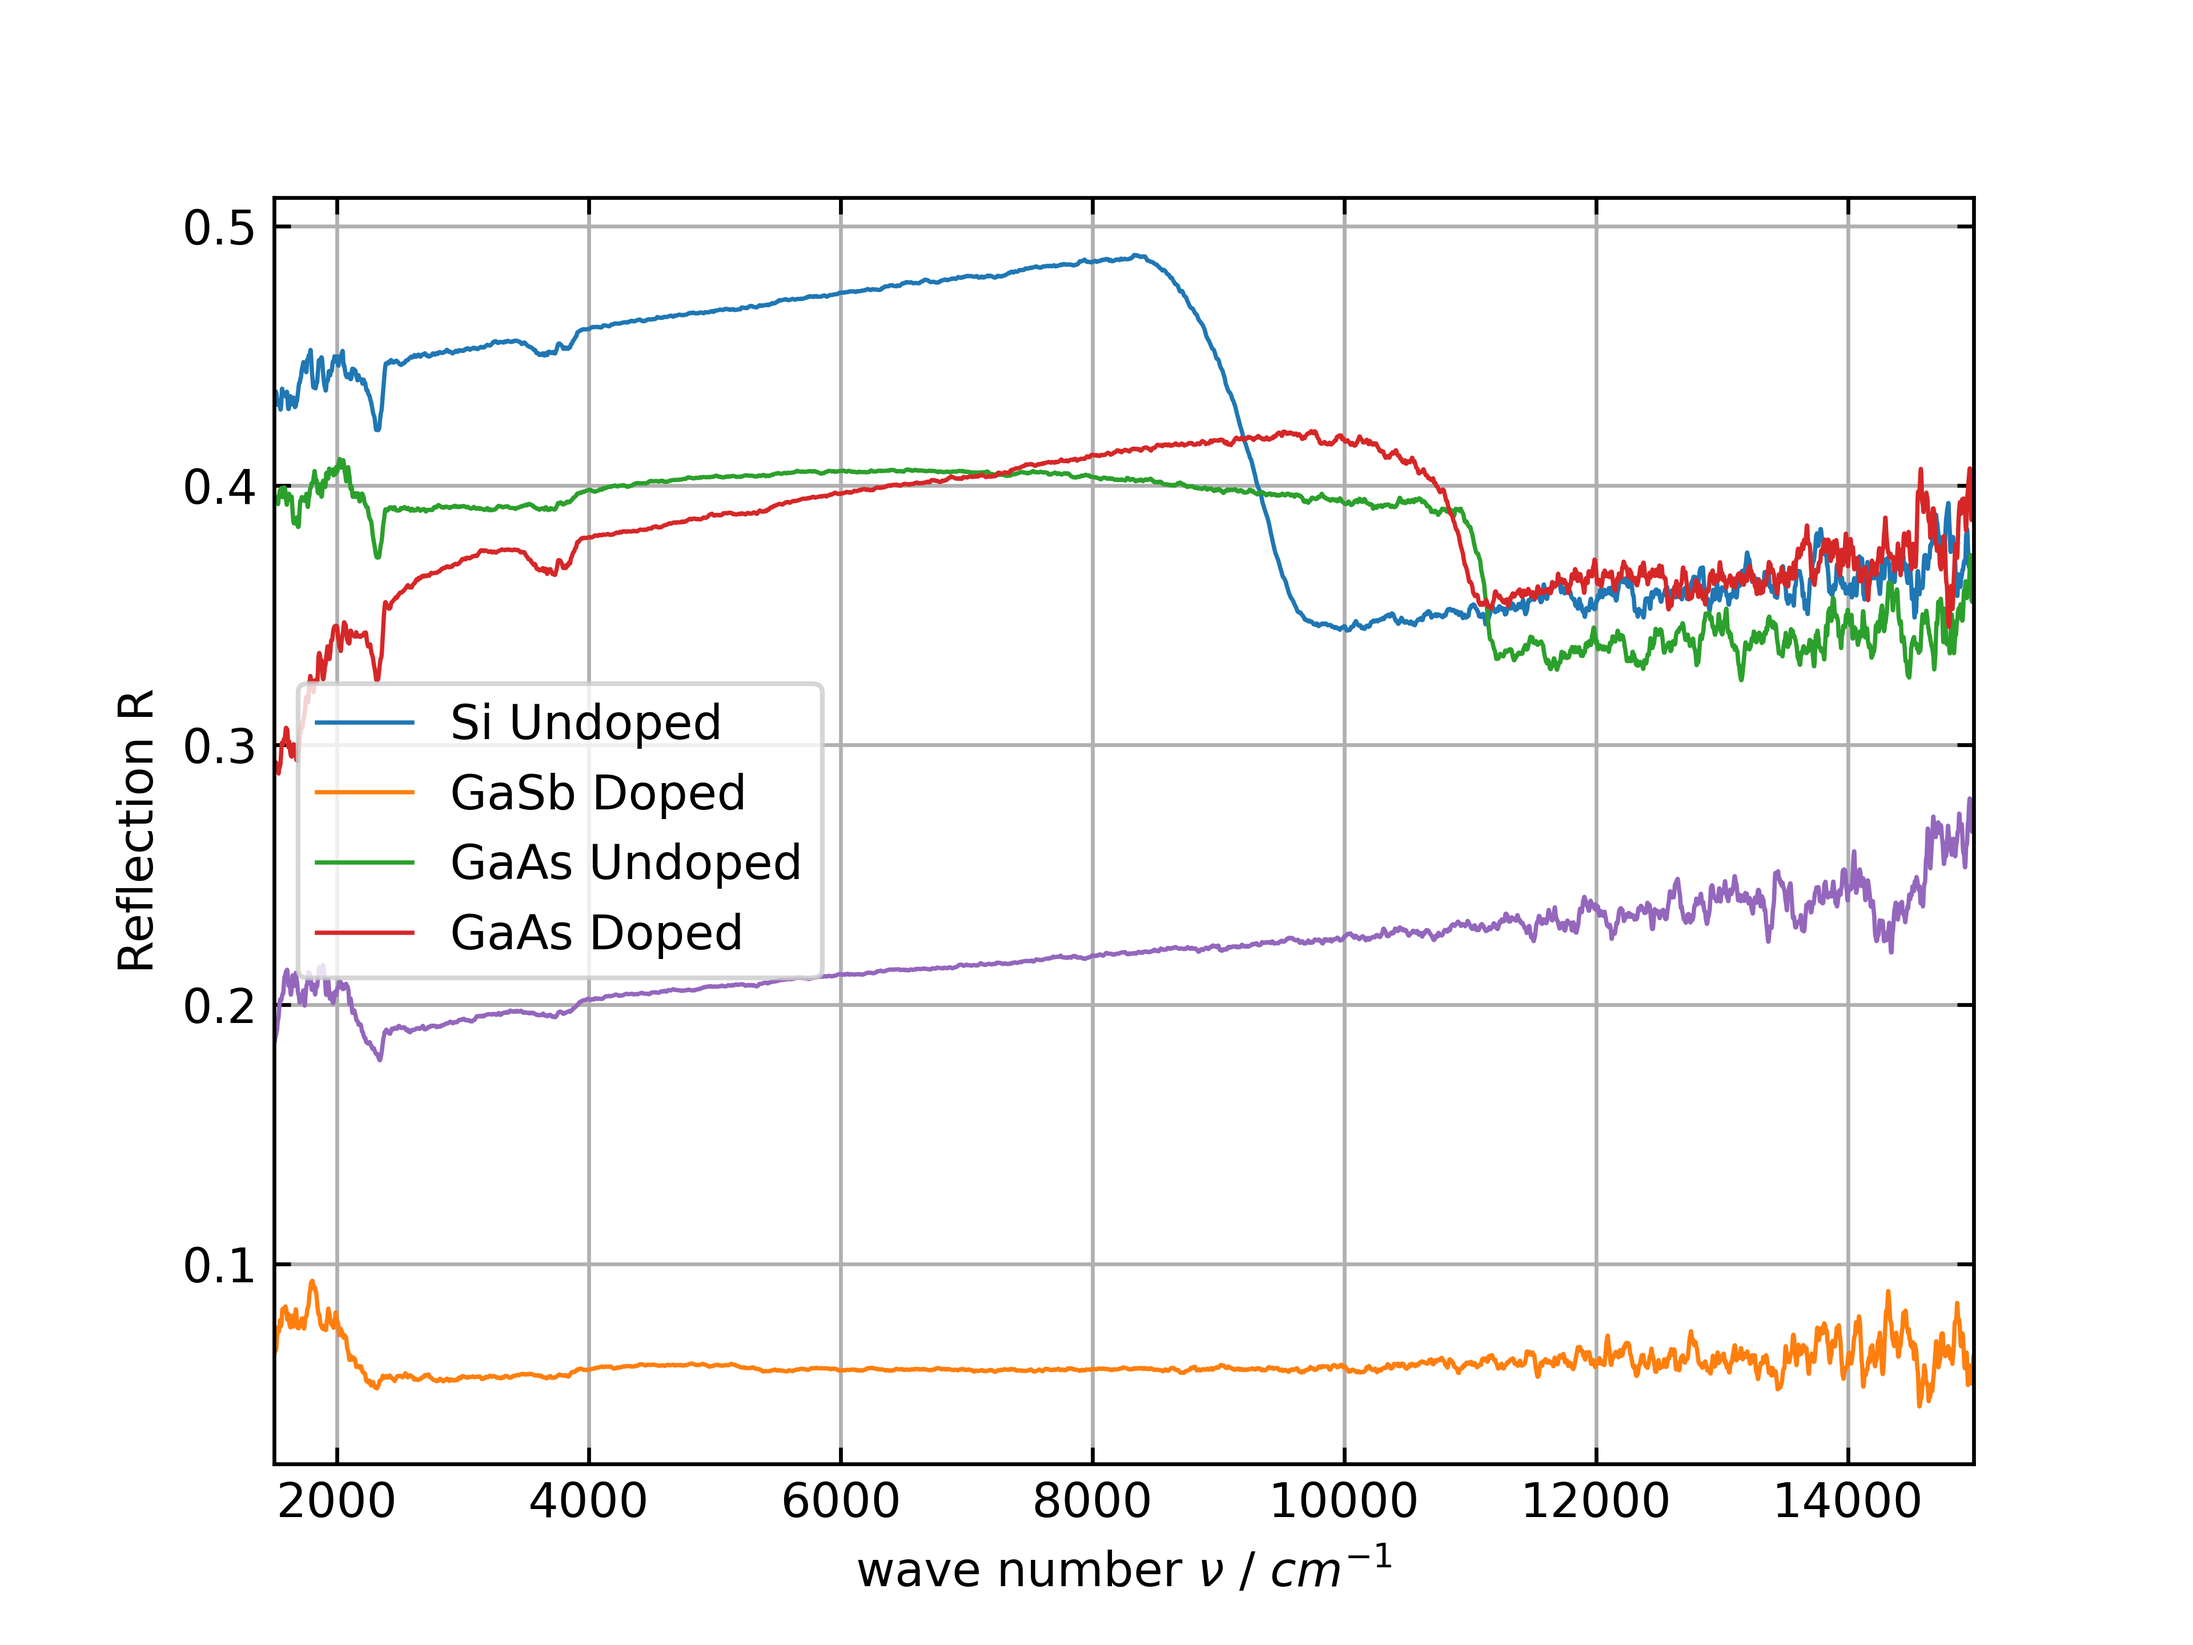
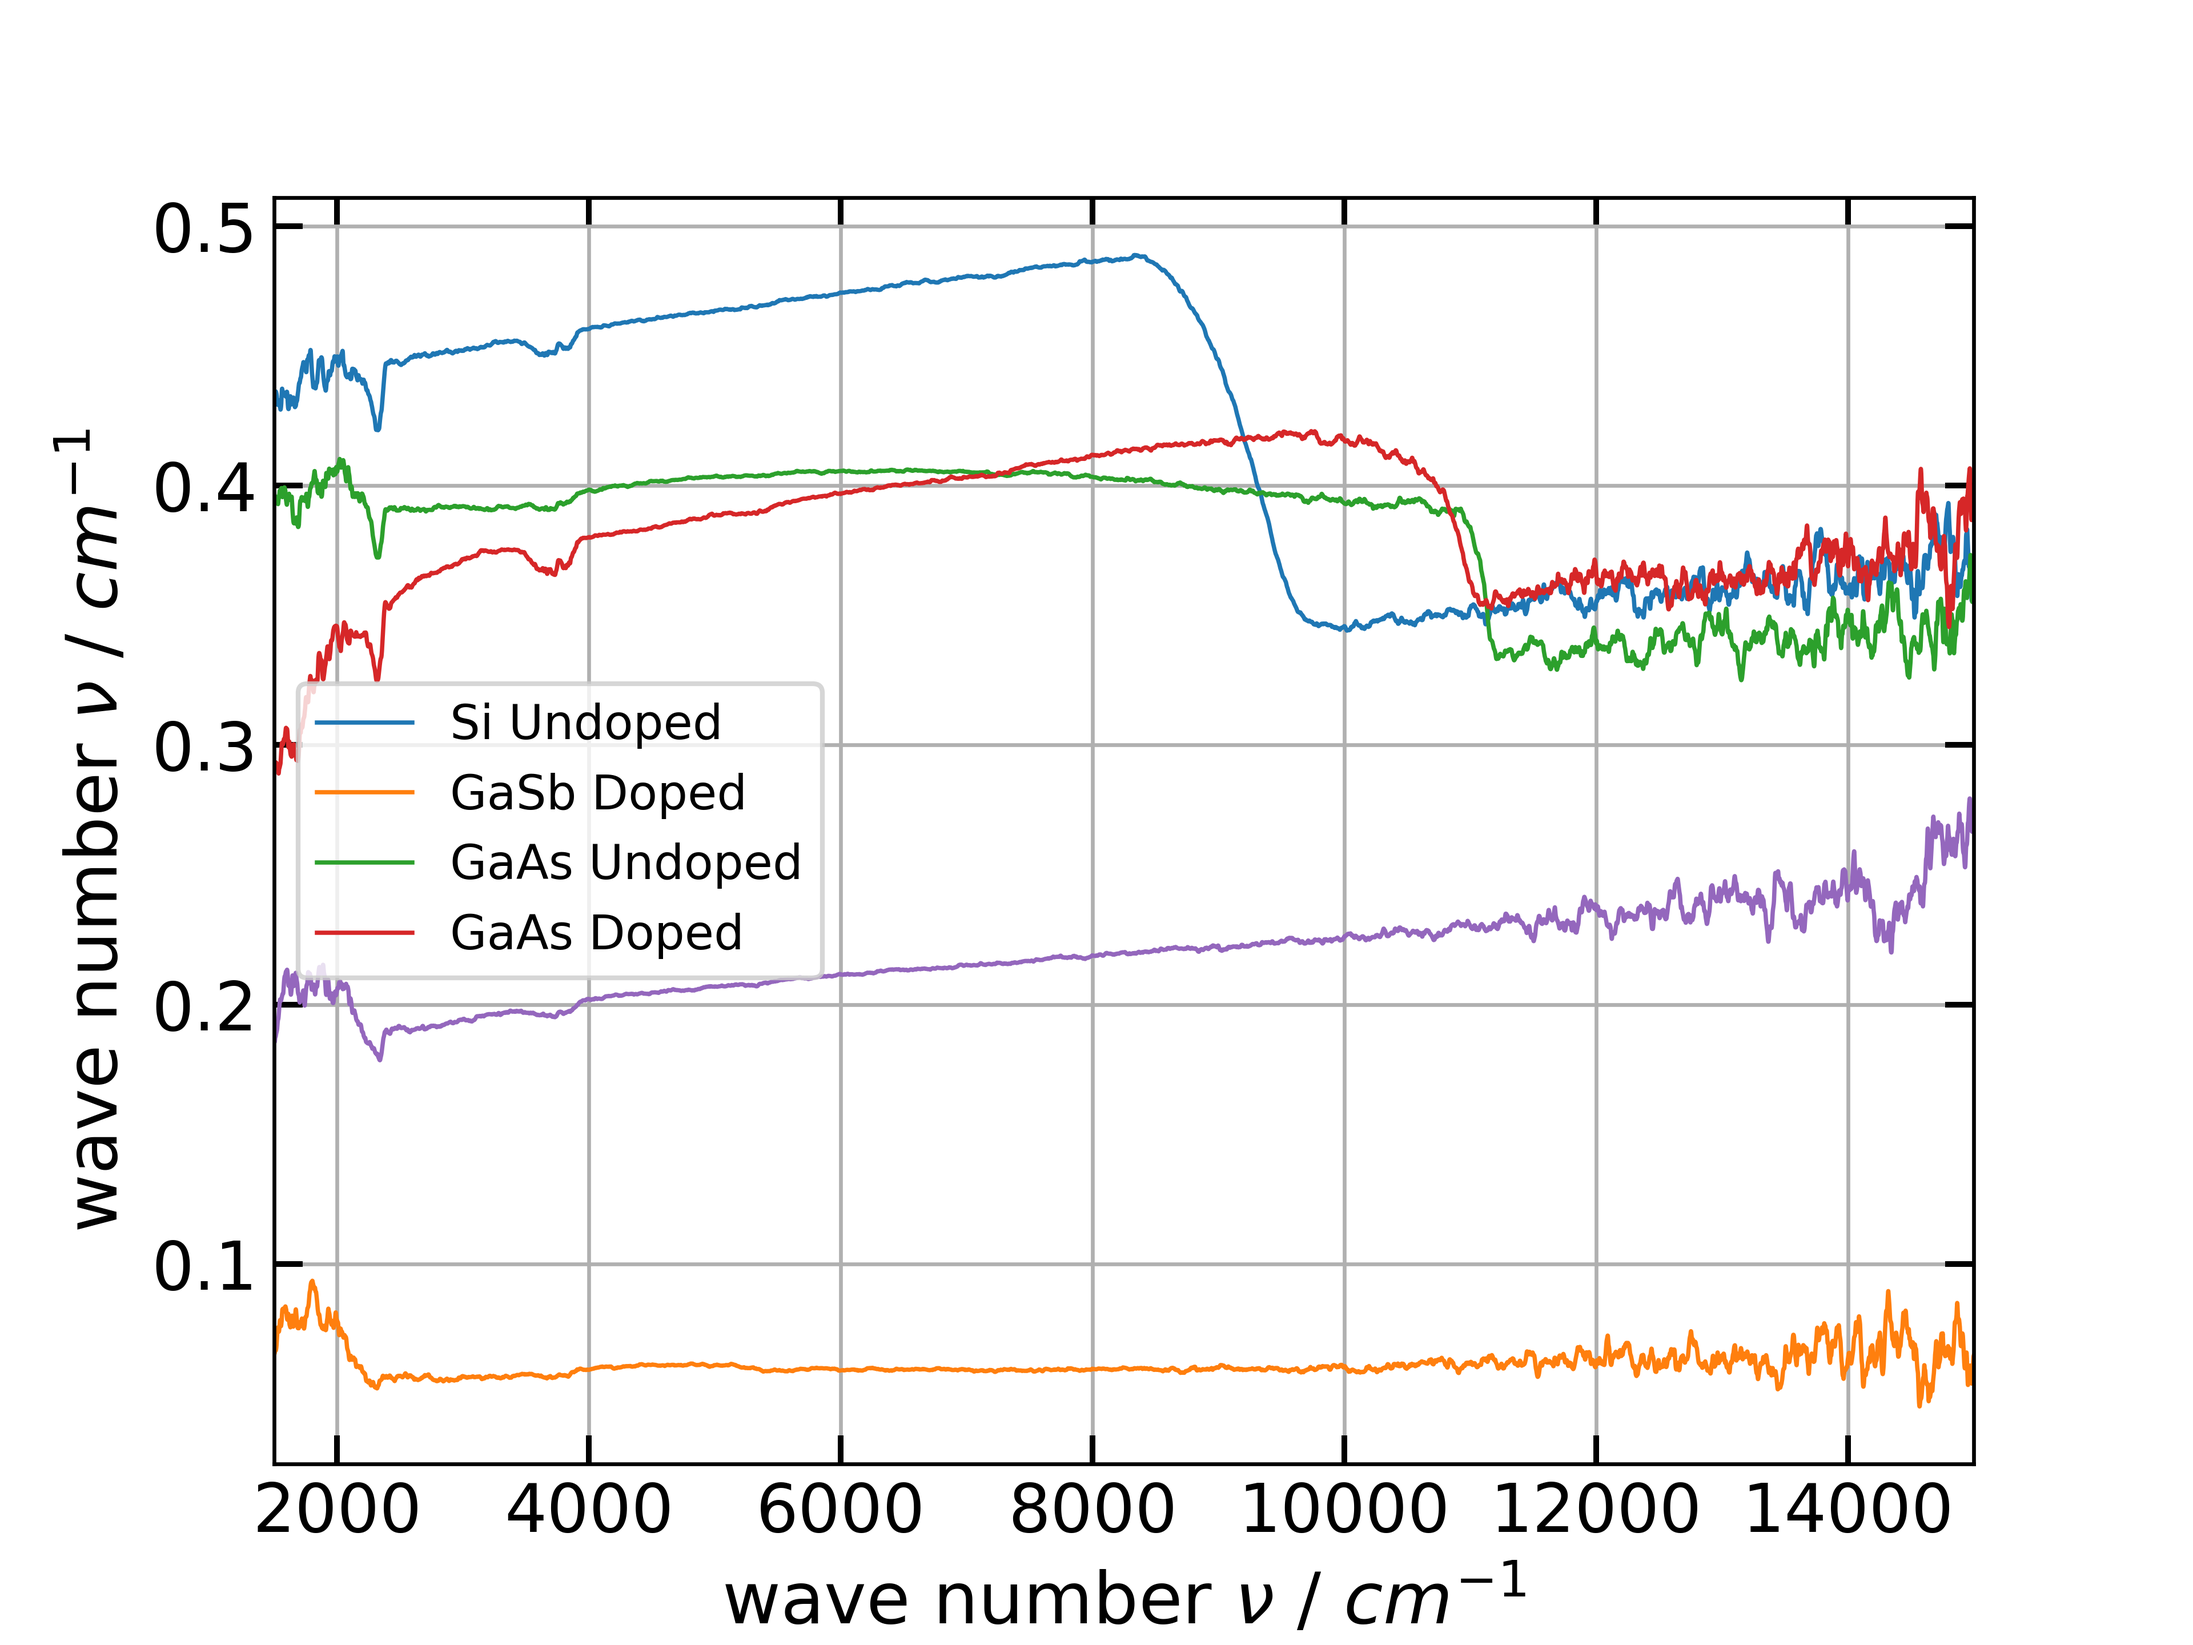
Discrete n

diff --git a/SolidStateOptics/countTo50.py b/SolidStateOptics/countTo50.py
@@ -1,0 +1,108 @@
+from matplotlib import pyplot as plt
+from DataPlotter import plot_data, save_and_open
+from DataReader import read_dpt_file
+from mpl_toolkits.axes_grid1.inset_locator import inset_axes
+from Frauen import bügeln
+from scipy.signal import find_peaks  # Added for peak detection
+
+transmissionGaAsDo = read_dpt_file(r'.\SolidStateOptics\RawData\Transmission_ex3\GaAs_doped_res03_N50_new_normalized.DPT')
+#2000-9000
+transmissionGaAsUnDo = read_dpt_file(r'.\SolidStateOptics\RawData\Transmission_ex3\GaAs_undoped_res03_N50_new_normalized.DPT')
+#2000-10500
+transmissionGaSbDo = read_dpt_file(r'.\SolidStateOptics\RawData\Transmission_ex3\GaSb_doped_res03_N50_new_normalized.DPT')
+#GaSb nicht möglich wegen rauschen
+transmissionSiUnDo = read_dpt_file(r'.\SolidStateOptics\RawData\Transmission_ex3\Si_undoped_res03_N50_normalized.DPT')
+#SiUnDo 2000-8500
+
+samplesOhneSiUn = [(transmissionSiUnDo, "Si Undoped", 530*10**-6, 0.0035, 2000, 8500),
+        #(transmissionGaSbDo, "GaSb Doped", 500*10**-6, 69, 69, 69),#geht nicht
+        (transmissionGaAsUnDo, "GaAs Undoped", 470*10**-6, 0.004, 2000, 10500),
+        (transmissionGaAsDo, "GaAs Doped", 440*10**-6, 0.004, 2000, 9000)
+    ]
+
+
+
+
+def k_chopper(data, k_min, k_max):
+    return [point for point in data if k_min <= point[0] <= k_max]
+
+def plot_peaks(data, d, x_center, x_range, prominence=0.004, filename=""):
+    x_values = [point[0] for point in data]
+    y_values = [point[1] for point in data]
+
+    # Find peaks in the y-values
+    peaks, _ = find_peaks(y_values, prominence=prominence, width=4)
+
+    x_min = x_center - x_range / 2
+    x_max = x_center + x_range / 2
+    if x_center is not None and x_range is not None:
+        peaks = [peak for peak in peaks if x_min <= x_values[peak] <= x_max]
+    
+    plt.plot([x for x in x_values if x_min <= x <= x_max], [y for x, y in zip(x_values, y_values) if x_min <= x <= x_max],
+             '-', markersize=1)
+    
+
+    for i in range(len(peaks)):
+       plt.plot(x_values[peaks[i]],y_values[peaks[i]], 'ro')
+       #plt.plot(x_values[peaks[i]],0.55, 'ro')
+       
+       
+    plt.xlabel(plt.gca().get_xlabel(), fontsize=15)
+    plt.ylabel(plt.gca().get_xlabel(), fontsize=15)
+    plt.tick_params(axis='both', labelsize=14)
+    plt.tick_params(axis='both', direction='in', which='both', top=True, right=True)
+    plt.tick_params(axis='both', length=6, width=1.2)
+    plt.xlabel(r'wave number $\nu$ / ' + r'$cm^{-1}$', fontsize=15)
+    plt.ylabel(r'Reflectivity R', fontsize=15)
+    plt.xlim(left=x_min, right=x_max)
+    plt.legend(fontsize=15) 
+    save_and_open(filename=filename)
+
+def calculate_n(data, d, x_center, windowSize, prominence=0.004):
+    x_values = [point[0] for point in data]
+    y_values = [point[1] for point in data]
+
+    peaks, _ = find_peaks(y_values, prominence=prominence, width=3)
+    x_peaks = [x_values[peak] for peak in peaks]
+    
+    x_min = x_center - windowSize / 2
+    x_max = x_center + windowSize / 2
+    peaksInWindow = [peak for peak in peaks if x_min <= x_values[peak] <= x_max]
+    
+    periods = [- x_values[peaksInWindow[i + 1]] + x_values[peaksInWindow[i]] for i in range(len(peaksInWindow)-1)]
+    period = sum(periods) / len(periods)
+    print(f"nr. period {len(periods)} bei nu {x_center}")      
+    return 1/(2*d*period*100)
+
+
+def plot_the_ns(windowsize=200):
+    colors = ['blue', 'green', 'red', 'purple', 'orange']  # Add a list of colors
+    for idx, (data, label, d, prominence, nu_min, nu_max) in enumerate(samplesOhneSiUn):
+        ns = []
+        for nu in range(nu_min, nu_max, 500):
+            ns.append(calculate_n(data, d, nu, windowsize, prominence=prominence))
+            error = 0.02 * calculate_n(data, d, nu, windowsize, prominence=prominence)
+            # ist die dicke der probe
+            plt.errorbar(nu, ns[-1], yerr=error, fmt='o', color=colors[idx % len(colors)], capsize=5)  # Use color from the list
+        plt.plot([nu for nu in range(nu_min, nu_max, 500)], ns, '.', label=label, markersize=10, color=colors[idx % len(colors)])  # Use color from the list
+
+    plt.grid(True)
+    plt.xlabel(plt.gca().get_xlabel(), fontsize=15)
+    plt.ylabel(plt.gca().get_xlabel(), fontsize=15)
+    plt.tick_params(axis='both', labelsize=14)
+    plt.tick_params(axis='both', direction='in', which='both', top=True, right=True)
+    plt.tick_params(axis='both', length=6, width=1.2)
+    plt.xlabel(r'wave number $\nu$ / ' + r'$cm^{-1}$', fontsize=15)
+    plt.ylabel(r'refractive index n', fontsize=15)
+    plt.legend(fontsize=15) 
+    save_and_open("RefractiveIndicesDiscrete")
+
+
+plot_peaks(transmissionSiUnDo, 500, 8000, 150, 0.004, filename="LewiPeak")
+#plot_the_ns()
+
+
+# Example usage
+#average_period = calculate_n(transmissionGaAsDo, 500, x_center=2010, x_range=500)
+#print(f"Average period {average_period}")
+

diff --git a/SolidStateOptics/Transmitivity.py b/SolidStateOptics/Transmitivity.py
@@ -1,27 +1,43 @@
 from matplotlib import pyplot as plt
 from DataPlotter import plot_data, save_and_open
 from DataReader import read_dpt_file
-from SolidStateOptics.Frauen import bügeln
+from mpl_toolkits.axes_grid1.inset_locator import inset_axes
+from Frauen import bügeln
 
 
-reflection = read_dpt_file(r'.\SolidStateOptics\RawData\Reflection_ex4\refl_GaAs_doped_res4_N50_normalized.DPT')
-transmission = read_dpt_file(r'.\SolidStateOptics\RawData\Transmission_ex4\GaAs_doped_res4_N50_normalized.DPT')
+transmission = read_dpt_file(r'.\SolidStateOptics\RawData\Transmission_ex3\GaAs_doped_res03_N50_new_normalized.DPT')
+
+x1_inset = 1500
+x2_inset = 1600
 
 
 
-# ausschnitt = []
-# for s in read_dpt_file(file1):
-#     if s[0] > 2000 and s[0] < 2200:
-#         ausschnitt.append([s[0], s[1]])
+def k_chopper(data, k_min, k_max):
+    return [point for point in data if k_min <= point[0] <= k_max]
 
-
-plot_data(bügeln(reflection,1))
-plot_data(bügeln(reflection,0.025))
-plt.xlabel('wave number k / ' + r'$cm^{-1}$')
-plt.ylabel('Reflection R')
-save_and_open()
 
 plot_data(transmission)
-plt.xlabel('wave number k / ' + r'$cm^{-1}$')
-plt.ylabel('Transmission T')
-save_and_open()
+
+plt.axvline(x=x1_inset, color='red', linestyle='-', label='k=6000', linewidth=0.5)
+plt.axvline(x=x2_inset, color='red', linestyle='-', label='k=6100', linewidth=0.5)
+
+#plt.legend()
+
+# Create an inset plot
+
+# Chop the data for the inset
+chopped_data = k_chopper(transmission, x1_inset, x2_inset)
+
+# Create the inset axes
+ax = plt.gca()
+ax_inset = ax.inset_axes([0.15, 0.08, 0.50, 0.50])
+ax_inset.plot([point[0] for point in chopped_data], [point[1] for point in chopped_data], color='blue')
+#ax_inset.set_title("Inset")
+#ax_inset.set_xlabel(r'$\nu$')
+#ax_inset.set_ylabel('T')
+ax_inset.tick_params(axis='both', direction='in')
+ax_inset.tick_params(axis='both', which='both', direction='in', top=True, right=True)
+
+plt.xlabel(r'wave number $\nu$ / ' + r'$cm^{-1}$', fontsize=15)
+plt.ylabel(r'Transmission T', fontsize=15)
+save_and_open(filename="foo")#Transmission_High_Res_GaAs_Doped_N50")

diff --git a/SolidStateOptics/DataPlotter.py b/SolidStateOptics/DataPlotter.py
@@ -18,12 +18,15 @@ def plot_data(data, label=''):
     
     plt.plot(x_values, y_values, '-', linewidth=0.9, label=label)  # Plot as single points
     plt.grid(True)
+    plt.xlabel(plt.gca().get_xlabel(), fontsize=15)
+    plt.ylabel(plt.gca().get_xlabel(), fontsize=15)
+    plt.tick_params(axis='both', labelsize=14)
     plt.tick_params(axis='both', direction='in', which='both', top=True, right=True)
+    plt.tick_params(axis='both', length=6, width=1.2)
     plt.xlim(left=min(x_values), right=max(x_values))
 
 
 def save_and_open(filename="foo", title=""):
-    plt.legend()
     plt.title(title)
     plt.savefig('.\\Paper\\Images\\'+filename + '.png', dpi=600)
     from PIL import Image
